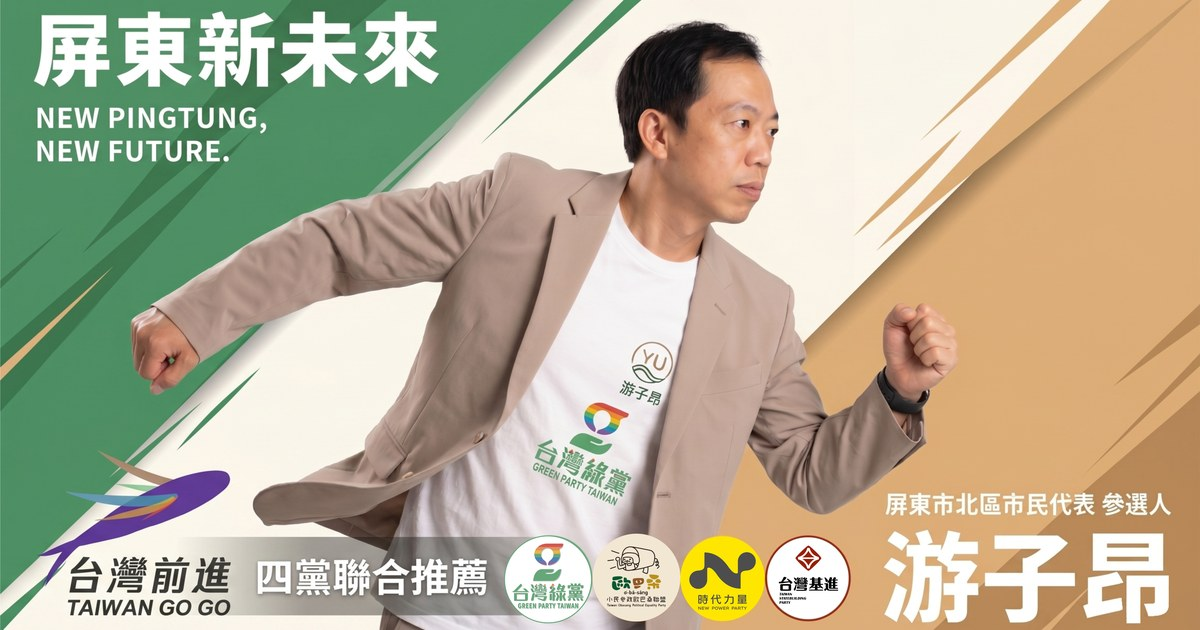
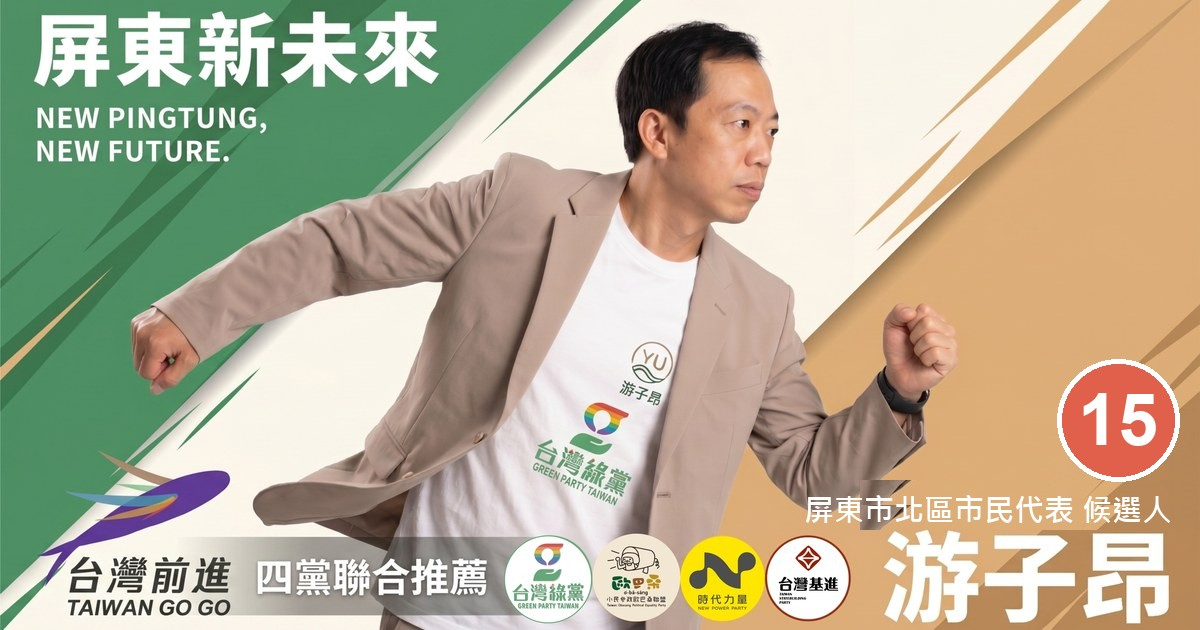
10/27 抽籤後改稱候選人 15 號：全站標題、頁尾、首頁徽章與分享縮圖

Changed region(s): [[0.6783, 0.573, 0.9867, 0.8444]]

diff --git a/index.html b/index.html
@@ -3,8 +3,8 @@
 <head>
   <meta charset="UTF-8">
   <meta name="viewport" content="width=device-width, initial-scale=1.0">
-  <title>游子昂｜屏東市北區市民代表參選人</title>
-  <meta name="description" content="游子昂，台灣綠黨提名、台灣前進陣線推薦，屏東市北區市民代表參選人。格外農品創辦人，在地創業七年，讓屏東公款說清楚。">
+  <title>游子昂｜屏東市北區市民代表候選人 15 號</title>
+  <meta name="description" content="游子昂，台灣綠黨提名、台灣前進陣線推薦，屏東市北區市民代表候選人 15 號。格外農品創辦人，在地創業七年，讓屏東公款說清楚。">
   <meta name="keywords" content="游子昂,屏東市民代表,屏東市北區,台灣前進,台灣綠黨,格外農品,屏東選舉2026">
   <meta name="author" content="游子昂競選辦公室">
   <meta name="robots" content="index, follow">
@@ -14,16 +14,16 @@
   <meta property="og:type" content="website">
   <meta property="og:url" content="https://ziangyou.tw/">
   <meta property="og:title" content="游子昂｜游我開始，屏東起行">
-  <meta property="og:description" content="屏東市北區市民代表參選人。格外農品創辦人，在地生根七年，讓公款說清楚。">
+  <meta property="og:description" content="屏東市北區市民代表候選人 15 號。格外農品創辦人，在地生根七年，讓公款說清楚。">
   <meta property="og:image" content="https://ziangyou.tw/images/og-share.jpg">
-  <meta property="og:image:alt" content="游子昂 屏東新未來 屏東市北區市民代表參選人">
+  <meta property="og:image:alt" content="游子昂 屏東新未來 屏東市北區市民代表候選人">
   <meta property="og:image:type" content="image/jpeg">
   <meta property="og:image:width" content="1200">
   <meta property="og:image:height" content="630">
   <meta property="og:locale" content="zh_TW">
   <meta name="twitter:card" content="summary_large_image">
   <meta name="twitter:image" content="https://ziangyou.tw/images/og-share.jpg">
-  <script type="application/ld+json">{"@context":"https://schema.org","@type":"Person","name":"游子昂","jobTitle":"屏東市北區市民代表參選人","affiliation":[{"@type":"Organization","name":"台灣綠黨"},{"@type":"Organization","name":"台灣前進陣線"}],"url":"https://ziangyou.tw","image":"https://ziangyou.tw/images/about-photo.jpg","sameAs":["https://www.facebook.com/GPZiAngYou","https://www.instagram.com/ziang.you"]}</script>
+  <script type="application/ld+json">{"@context":"https://schema.org","@type":"Person","name":"游子昂","jobTitle":"屏東市北區市民代表候選人","affiliation":[{"@type":"Organization","name":"台灣綠黨"},{"@type":"Organization","name":"台灣前進陣線"}],"url":"https://ziangyou.tw","image":"https://ziangyou.tw/images/about-photo.jpg","sameAs":["https://www.facebook.com/GPZiAngYou","https://www.instagram.com/ziang.you"]}</script>
   <link rel="preconnect" href="https://fonts.googleapis.com">
   <link href="https://fonts.googleapis.com/css2?family=Noto+Sans+TC:wght@300;400;500;700;900&display=swap" rel="stylesheet">
   <style>
@@ -394,7 +394,7 @@ src="https://www.facebook.com/tr?id=1782786306235550&ev=PageView&noscript=1"
   <div class="container">
     <div class="hero-inner">
       <div>
-        <div class="hero-badge"><span>🌿</span> 2026 屏東市北區(第四選區)市民代表 參選人</div>
+        <div class="hero-badge"><span>🌿</span> 2026 屏東市北區(第四選區)市民代表 候選人 15 號</div>
         <h1 class="hero-name">游子昂</h1>
         <p class="hero-title">台灣綠黨提名 · 台灣前進陣線聯合推薦</p>
         <p class="hero-slogan">游我開始，屏東起行</p>
@@ -706,7 +706,7 @@ src="https://www.facebook.com/tr?id=1782786306235550&ev=PageView&noscript=1"
             </li>
             <li>
               <div class="year">2026</div>
-              <div class="role">屏東市北區市民代表參選人</div>
+              <div class="role">屏東市北區市民代表候選人</div>
               <div class="org">台灣綠黨提名 · 台灣前進陣線（時代力量、台灣基進、綠黨、小歐盟）聯合推薦</div>
             </li>
           </ul>
@@ -807,7 +807,7 @@ src="https://www.facebook.com/tr?id=1782786306235550&ev=PageView&noscript=1"
         <div class="media-body">
           <div class="media-source">報導者・2026.10.11</div>
           <h4>小黨生存空間最新實驗：四合一的「台灣前進」能前進到什麼地方？</h4>
-          <p>報導者分析台灣前進四黨合作：小黨候選人選完一次，將近一半不再參選，留在同一選區再選一次的不到 5%。本篇沒有直接寫到游子昂；他是台灣前進在屏東市北區（第四選區）推薦的參選人。</p>
+          <p>報導者分析台灣前進四黨合作：小黨候選人選完一次，將近一半不再參選，留在同一選區再選一次的不到 5%。本篇沒有直接寫到游子昂；他是台灣前進在屏東市北區（第四選區）推薦的候選人。</p>
           <a href="https://www.twreporter.org/a/2026-local-elections-taiwan-go-go" target="_blank" rel="noopener">查看報導 →</a>
         </div>
       </div>
@@ -1428,7 +1428,7 @@ src="https://www.facebook.com/tr?id=1782786306235550&ev=PageView&noscript=1"
   <div class="container">
     <div class="footer-content">
       <div class="footer-brand">
-        <strong>游子昂</strong> — 2026屏東市北區(第四選區)市民代表 參選人
+        <strong>游子昂</strong> — 2026屏東市北區(第四選區)市民代表 候選人 15 號
       </div>
       <div class="footer-links">
         <a href="#hero">首頁</a>

diff --git a/join.html b/join.html
@@ -4,7 +4,7 @@
   <meta charset="UTF-8">
   <meta name="viewport" content="width=device-width, initial-scale=1.0">
   <title>支持子昂的三種方式：借一面牆、借一個晚上、陪走兩小時｜游子昂 屏東市北區市民代表</title>
-  <meta name="description" content="不用加入什麼、不用簽下去。屏東市北區市民代表參選人游子昂提出三種具體的參與方式：借一面牆掛看板、借一個晚上辦客廳會、陪走兩小時。一次就好。">
+  <meta name="description" content="不用加入什麼、不用簽下去。屏東市北區市民代表候選人游子昂提出三種具體的參與方式：借一面牆掛看板、借一個晚上辦客廳會、陪走兩小時。一次就好。">
   <meta name="keywords" content="游子昂,屏東市北區,市民代表,志工招募,客廳會,友善店家,競選看板,屏東,台灣前進,綠黨">
   <meta name="author" content="游子昂競選辦公室">
   <meta name="robots" content="index, follow">
@@ -152,7 +152,7 @@
     <div class="join-hero-cta">
       <a class="jc-btn jc-btn-primary" href="https://forms.monday.com/forms/a4037e57c02b69fd4ea8166710f22fcb?r=apse2" target="_blank" rel="noopener">前往填表 →</a>
     </div>
-    <p style="font-size:.92rem;opacity:.7">不方便填表的話，直接私訊粉專也可以：<a href="https://www.facebook.com/GPZiAngYou" target="_blank" rel="noopener">游子昂—屏東市北區市民代表參選人</a></p>
+    <p style="font-size:.92rem;opacity:.7">不方便填表的話，直接私訊粉專也可以：<a href="https://www.facebook.com/GPZiAngYou" target="_blank" rel="noopener">游子昂—屏東市北區市民代表候選人</a></p>
 
     <div class="badge" style="margin-top:32px">常見問題</div>
 
@@ -184,7 +184,7 @@
 <footer class="footer">
   <div class="container">
     <div class="footer-content">
-      <div class="footer-brand"><strong>游子昂</strong> — 2026屏東市北區(第四選區)市民代表 參選人</div>
+      <div class="footer-brand"><strong>游子昂</strong> — 2026屏東市北區(第四選區)市民代表 候選人 15 號</div>
       <div class="footer-links">
         <a href="/index.html">首頁</a>
         <a href="/index.html#platform">政見</a>

diff --git a/policies/gender-friendly.html b/policies/gender-friendly.html
@@ -3,7 +3,7 @@
 <head>
   <meta charset="UTF-8">
   <meta name="viewport" content="width=device-width, initial-scale=1.0">
-  <title>彩虹平權承諾：親職空間、夜間照明、友善廁所、性別預算審查｜游子昂 屏東市北區市民代表參選人</title>
+  <title>彩虹平權承諾：親職空間、夜間照明、友善廁所、性別預算審查｜游子昂 屏東市北區市民代表候選人</title>
   <meta name="description" content="游子昂在彩虹平權大平台候選人問卷寫下的四件事：友善親職空間、夜間安心走廊、性別友善廁所、性別預算審查。問卷公開於 PrideWatch。">
   <meta name="keywords" content="游子昂,彩虹平權,性別友善,性別預算,友善親職空間,性別友善廁所,屏東市民代表,PrideWatch">
   <meta name="author" content="游子昂競選辦公室">
@@ -113,7 +113,7 @@
       <p>代表會的工作就是審市公所的預算。工務、交通、教育每一筆錢下去，受益的是誰、漏掉的是誰，審查的時候可以問。</p>
     </div>
 
-    <div class="note-box">📌 本頁四件事全部出自我在彩虹平權大平台填寫的候選人問卷，未另外增加承諾。「候選人」是該平台的系統用語；依選舉時程，2026年11月22日公告候選人名單前，我的身分是參選人。</div>
+    <div class="note-box">📌 本頁四件事全部出自我在彩虹平權大平台填寫的候選人問卷，未另外增加承諾。</div>
 
     <div class="badge">常見問答</div>
     <h2 class="section-title">FAQ</h2>
@@ -134,7 +134,7 @@
 <footer class="footer">
   <div class="container">
     <div class="footer-content">
-      <div class="footer-brand"><strong>游子昂</strong> — 2026屏東市北區(第四選區)市民代表 參選人</div>
+      <div class="footer-brand"><strong>游子昂</strong> — 2026屏東市北區(第四選區)市民代表 候選人 15 號</div>
       <div class="footer-links">
         <a href="/index.html">首頁</a>
         <a href="/index.html#platform">政見</a>

diff --git a/policies/market-fire-safety.html b/policies/market-fire-safety.html
@@ -3,7 +3,7 @@
 <head>
   <meta charset="UTF-8">
   <meta name="viewport" content="width=device-width, initial-scale=1.0">
-  <title>北區市場消防安全：消防車進不去的市場｜游子昂 屏東市北區市民代表參選人</title>
+  <title>北區市場消防安全：消防車進不去的市場｜游子昂 屏東市北區市民代表候選人</title>
   <meta name="description" content="2025年大年初一屏東市北區市場火警，報導寫市場巷弄狹小、消防車無法進入。火警後查不到任何消防改善工程，我已申請政府資訊公開，並提出補助申請、窄巷列管、定期演練、添購強化液滅火器四項建議。">
   <meta name="keywords" content="游子昂,北區市場,北區公有零售市場,市場消防,消防車進不去,狹小巷弄,斯文里,屏東市民代表,強化液滅火器,消防演練">
   <meta name="author" content="游子昂競選辦公室">
@@ -207,7 +207,7 @@
 <footer class="footer">
   <div class="container">
     <div class="footer-content">
-      <div class="footer-brand"><strong>游子昂</strong> — 2026屏東市北區(第四選區)市民代表 參選人</div>
+      <div class="footer-brand"><strong>游子昂</strong> — 2026屏東市北區(第四選區)市民代表 候選人 15 號</div>
       <div class="footer-links">
         <a href="/index.html">首頁</a>
         <a href="/index.html#platform">政見</a>

diff --git a/policies/nhi-premium-sme.html b/policies/nhi-premium-sme.html
@@ -3,7 +3,7 @@
 <head>
   <meta charset="UTF-8">
   <meta name="viewport" content="width=device-width, initial-scale=1.0">
-  <title>65歲以上免健保費三讀：中小企業要算的那筆帳｜游子昂 屏東市北區市民代表 參選人</title>
+  <title>65歲以上免健保費三讀：中小企業要算的那筆帳｜游子昂 屏東市北區市民代表候選人</title>
   <meta name="description" content="2026-10-16 立法院三讀《老人福利法》第22條，65歲以上、所得稅率未達20%者健保費由中央全額補助，一年約400億元。財源寫的是中央補助；但若之後調高健保費率，受僱者保費公司負擔60%，20人的公司一年約多付4.3萬元（試算）。">
   <meta name="keywords" content="游子昂,65歲免健保費,老人福利法第22條,健保費率,中小企業,屏東市民代表">
   <meta name="author" content="游子昂競選辦公室">
@@ -158,7 +158,7 @@
 <footer class="footer">
   <div class="container">
     <div class="footer-content">
-      <div class="footer-brand"><strong>游子昂</strong> — 2026屏東市北區(第四選區)市民代表 參選人</div>
+      <div class="footer-brand"><strong>游子昂</strong> — 2026屏東市北區(第四選區)市民代表 候選人 15 號</div>
       <div class="footer-links">
         <a href="/index.html">首頁</a>
         <a href="/index.html#platform">政見</a>

diff --git a/policies/council-transparency.html b/policies/council-transparency.html
@@ -3,7 +3,7 @@
 <head>
   <meta charset="UTF-8">
   <meta name="viewport" content="width=device-width, initial-scale=1.0">
-  <title>代表會的資料，不該搬個家就不見了：議事透明三項主張｜游子昂 屏東市北區市民代表參選人</title>
+  <title>代表會的資料，不該搬個家就不見了：議事透明三項主張｜游子昂 屏東市北區市民代表候選人</title>
   <meta name="description" content="游子昂：屏東市民代表會四年份議事錄在網站遷移後消失，法定五年公開期限都還沒到。我提出議事透明三項主張——搬家不掉件、臨時會說得出理由、把代表會納入中央查核。">
   <meta name="keywords" content="游子昂,議事透明,屏東市民代表會,議事錄,地方立法機關組織準則,地方制度法,臨時會,資訊公開">
   <meta name="author" content="游子昂競選辦公室">
@@ -258,7 +258,7 @@
 <footer class="footer">
   <div class="container">
     <div class="footer-content">
-      <div class="footer-brand"><strong>游子昂</strong> — 2026屏東市北區(第四選區)市民代表 參選人</div>
+      <div class="footer-brand"><strong>游子昂</strong> — 2026屏東市北區(第四選區)市民代表 候選人 15 號</div>
       <div class="footer-links">
         <a href="/index.html">首頁</a>
         <a href="/index.html#platform">政見</a>

diff --git a/policies/food-safety.html b/policies/food-safety.html
@@ -3,7 +3,7 @@
 <head>
   <meta charset="UTF-8">
   <meta name="viewport" content="width=device-width, initial-scale=1.0">
-  <title>轄內市場、夜市食安稽核不能等出事：游子昂的三項主張｜游子昂 屏東市北區市民代表參選人</title>
+  <title>轄內市場、夜市食安稽核不能等出事：游子昂的三項主張｜游子昂 屏東市北區市民代表候選人</title>
   <meta name="description" content="游子昂：食安不能只靠業者自己說。我主張市公所14天內清查轄內公有市場、夜市用油來源並公布，第三方認證檢驗取代業者自主聲明，每年公開稽查人力與抽驗數據供市民代表會監督。">
   <meta name="keywords" content="游子昂,食安,市場夜市稽核,屏東市民代表,食品安全衛生管理法">
   <meta name="author" content="游子昂競選辦公室">
@@ -172,7 +172,7 @@
 <footer class="footer">
   <div class="container">
     <div class="footer-content">
-      <div class="footer-brand"><strong>游子昂</strong> — 2026屏東市北區(第四選區)市民代表 參選人</div>
+      <div class="footer-brand"><strong>游子昂</strong> — 2026屏東市北區(第四選區)市民代表 候選人 15 號</div>
       <div class="footer-links">
         <a href="/index.html">首頁</a>
         <a href="/index.html#platform">政見</a>

diff --git a/policies/park-flood-resilience.html b/policies/park-flood-resilience.html
@@ -3,7 +3,7 @@
 <head>
   <meta charset="UTF-8">
   <meta name="viewport" content="width=device-width, initial-scale=1.0">
-  <title>公園不只是公園：屏東市的滯洪與防災教育｜游子昂 屏東市北區市民代表參選人</title>
+  <title>公園不只是公園：屏東市的滯洪與防災教育｜游子昂 屏東市北區市民代表候選人</title>
   <meta name="description" content="我主張比照復興公園「滯洪＋環境教育」的定位，推動北區公園綠地滯洪改善進度公開、防災教育扎根社區；並記錄我追問海豐一帶反覆積淹水，縣府2026年9月29日的回覆與後續追問。">
   <meta name="keywords" content="游子昂,公園滯洪,防災教育,復興公園,海豐淹水,海豐里,屏東市民代表,水災韌性">
   <meta name="author" content="游子昂競選辦公室">
@@ -216,7 +216,7 @@
 <footer class="footer">
   <div class="container">
     <div class="footer-content">
-      <div class="footer-brand"><strong>游子昂</strong> — 2026屏東市北區(第四選區)市民代表 參選人</div>
+      <div class="footer-brand"><strong>游子昂</strong> — 2026屏東市北區(第四選區)市民代表 候選人 15 號</div>
       <div class="footer-links">
         <a href="/index.html">首頁</a>
         <a href="/index.html#platform">政見</a>

diff --git a/policies/energy-oversight.html b/policies/energy-oversight.html
@@ -3,7 +3,7 @@
 <head>
   <meta charset="UTF-8">
   <meta name="viewport" content="width=device-width, initial-scale=1.0">
-  <title>節能不能只靠你我關冷氣：屏東能源治理三個考題｜游子昂 屏東市北區市民代表參選人</title>
+  <title>節能不能只靠你我關冷氣：屏東能源治理三個考題｜游子昂 屏東市北區市民代表候選人</title>
   <meta name="description" content="從屏東西市場節電活動談起，游子昂提出屏東能源治理三個監督主張：公開種樹百里2.0存活率追蹤、公開光電侵農爭議後續處理、公開電網饋線升壓容量餘裕。">
   <meta name="keywords" content="游子昂,節能,種樹百里2.0,光電侵農,電網韌性,屏東市民代表,高溫,屏鵝公路">
   <meta name="author" content="游子昂競選辦公室">
@@ -167,7 +167,7 @@
 <footer class="footer">
   <div class="container">
     <div class="footer-content">
-      <div class="footer-brand"><strong>游子昂</strong> — 2026屏東市北區(第四選區)市民代表 參選人</div>
+      <div class="footer-brand"><strong>游子昂</strong> — 2026屏東市北區(第四選區)市民代表 候選人 15 號</div>
       <div class="footer-links">
         <a href="/index.html">首頁</a>
         <a href="/index.html#platform">政見</a>

diff --git a/policies/budget-oversight.html b/policies/budget-oversight.html
@@ -3,7 +3,7 @@
 <head>
   <meta charset="UTF-8">
   <meta name="viewport" content="width=device-width, initial-scale=1.0">
-  <title>會看財報的治理者：屏東市公所的預算，錢花在哪裡｜游子昂 屏東市北區市民代表參選人</title>
+  <title>會看財報的治理者：屏東市公所的預算，錢花在哪裡｜游子昂 屏東市北區市民代表候選人</title>
   <meta name="description" content="游子昂：我整理屏東市公所公開採購與決算資料，發現月刊印製案7屆5屆同一家得標、多件禮贈品採購決標價與底價分毫不差，主張公開議價紀錄與財源說明。">
   <meta name="keywords" content="游子昂,屏東市公所,預算監督,採購案,財政紀律,屏東市民代表">
   <meta name="author" content="游子昂競選辦公室">
@@ -140,7 +140,7 @@
 <footer class="footer">
   <div class="container">
     <div class="footer-content">
-      <div class="footer-brand"><strong>游子昂</strong> — 2026屏東市北區(第四選區)市民代表 參選人</div>
+      <div class="footer-brand"><strong>游子昂</strong> — 2026屏東市北區(第四選區)市民代表 候選人 15 號</div>
       <div class="footer-links">
         <a href="/index.html">首頁</a>
         <a href="/index.html#platform">政見</a>

diff --git a/policies/child-safety-tools.html b/policies/child-safety-tools.html
@@ -3,7 +3,7 @@
 <head>
   <meta charset="UTF-8">
   <meta name="viewport" content="width=device-width, initial-scale=1.0">
-  <title>補習班、教練、教保、醫事人員裁罰查詢工具｜游子昂 屏東市北區市民代表 參選人</title>
+  <title>補習班、教練、教保、醫事人員裁罰查詢工具｜游子昂 屏東市北區市民代表候選人</title>
   <meta name="description" content="補習班是否立案、教練有無不適任紀錄、教保人員與醫事人員的裁罰名單，這裡整理7個查詢管道（6個官方系統＋1個民間彙整工具），讓家長與市民自己動手查。">
   <meta name="keywords" content="游子昂,兒少安全,補習班查詢,不適任教練,教保人員裁罰,屏東市民代表">
   <meta name="author" content="游子昂競選辦公室">
@@ -136,7 +136,7 @@
 <footer class="footer">
   <div class="container">
     <div class="footer-content">
-      <div class="footer-brand"><strong>游子昂</strong> — 2026屏東市北區(第四選區)市民代表 參選人</div>
+      <div class="footer-brand"><strong>游子昂</strong> — 2026屏東市北區(第四選區)市民代表 候選人 15 號</div>
       <div class="footer-links">
         <a href="/index.html">首頁</a>
         <a href="/index.html#platform">政見</a>

diff --git a/policies/human-centered-traffic.html b/policies/human-centered-traffic.html
@@ -3,7 +3,7 @@
 <head>
   <meta charset="UTF-8">
   <meta name="viewport" content="width=device-width, initial-scale=1.0">
-  <title>讓屏東市的每一條路，先為走路的人設想｜游子昂 屏東市北區市民代表參選人</title>
+  <title>讓屏東市的每一條路，先為走路的人設想｜游子昂 屏東市北區市民代表候選人</title>
   <meta name="description" content="游子昂：我響應「下一代人本交通促進會」2026交通改善承諾白皮書，主打國中小周邊通學步道安全健檢，回應屏東縣2026年7月交通死亡人數創新高。">
   <meta name="keywords" content="游子昂,人本交通,通學安全,交通白皮書,屏東市民代表,道路安全">
   <meta name="author" content="游子昂競選辦公室">
@@ -216,7 +216,7 @@
 <footer class="footer">
   <div class="container">
     <div class="footer-content">
-      <div class="footer-brand"><strong>游子昂</strong> — 2026屏東市北區(第四選區)市民代表 參選人</div>
+      <div class="footer-brand"><strong>游子昂</strong> — 2026屏東市北區(第四選區)市民代表 候選人 15 號</div>
       <div class="footer-links">
         <a href="/index.html">首頁</a>
         <a href="/index.html#platform">政見</a>
